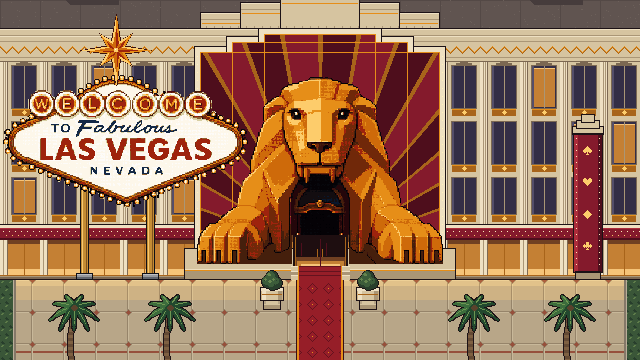
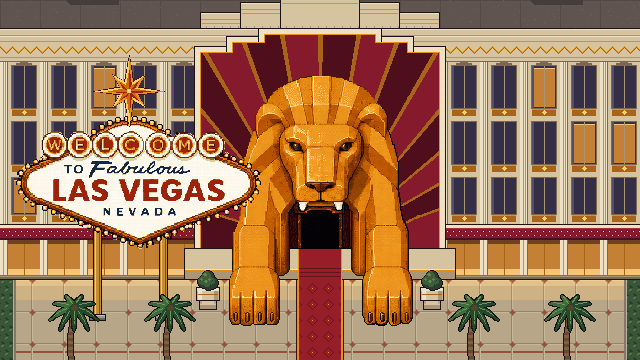
feat: el trailer en espanol muestra el juego de develop 793b10e
Se recapturan los planos que ensenaban algo que ya no esta en el juego
(03_firma, 04_parqueo, 05_hud, 10_brujo, 10_camisa, 11_hud y 12_reloj) y
se adaptan las composiciones que dependian de lo de antes:

- 03: la firma es ahora el cheque crema con el sello APROBADO; se anade
  su golpe seco (stamp-thud.wav del juego, CC0) cuando el sello toca el
  papel. music.mjs lo copia a sfx/ con el resto.
- 04: el leon nuevo esta de pie con las patas en la acera; el punto fijo
  del zoom pasa a su boca (pixel de juego 320, 232). "3 apuestas" pasa a
  "3 acciones": son acciones, no apuestas.
- 05, 11 y 12: el HUD es una sola tarjeta arriba a la izquierda. Los
  zooms que senalaban el dia a un lado y las acciones al otro encuadran
  ahora sus filas a x5 (arriba DIA 1 y el reloj, abajo ACCIONES, PLATA y
  DEUDA). En 12 el golpe sobre 0:00 es x7: a x6 asomaban DIA 1 o las
  fichas.
- 10: la tienda trae el plano del casino y la camisa es la pestana CAMISA
  de la pausa; el rotulo se va en ese corte para no tapar las pestanas.
- 16: el fondo del logo (shared/img/fachada.png) es la fachada nueva.

Solo espanol: texts/en.json, renders/en y out/trailer_en.mp4 no se tocan.

diff --git a/scenes/11-montaje/index.html b/scenes/11-montaje/index.html
@@ -4,6 +4,13 @@
   Cortes cada dos tiempos al principio y cada tiempo despues (de ~0,9 s a ~0,36 s): las
   mesas, los caballos llegando a camara lenta y el HUD: el dinero sube y baja, las acciones
   pasan de tres a ninguna y el reloj vuela. Cada corte lleva su sonido del juego, bajo.
+  El HUD es una tarjeta arriba a la izquierda. Sus cortes la encuadran a x5 (la tarjeta llena
+  el ancho, como en la escena 05): la mitad de abajo (ACCIONES, PLATA y DEUDA) o la de arriba
+  (DIA 1 y el reloj); o a x3 desde la esquina, como el principio de la escena 12. Cada corte con
+  "Una mas." encima va con el encuadre que deja el texto en un hueco entre filas: el del tiempo
+  13 (c5, top 450) cae entre DIA 1 y el reloj (por eso ese corte empieza en la fila 2 y no en
+  la 3: el reloj baja 15 px y no roza el texto); los del 20 y el 23 (c6, top 570), entre PLATA
+  y DEUDA y bajo el reloj.
   Sale del pase de carrete de la escena 10.
   Texto: "Una mas." tres veces, cada vez mas grande; la ultima, en rojo.
   Cada corte: data-beats="desde hasta" (tiempos) y data-sync="segundo_fuente@tiempo".
@@ -51,7 +58,7 @@
         </div>
       </div>
       <div class="shot">
-        <div class="zoom" style="transform: translate(-3840px, 0) scale(3)">
+        <div class="zoom" style="transform: translate(-60px, -1170px) scale(5)">
           <video data-media-start="1.55" data-duration="0.8667" data-start="1.7833" id="s11-c02" class="clip" src="captures/11_hud.mp4"
             data-beats="4 6" data-sync="1.55@4" data-track-index="0" muted playsinline></video>
         </div>
@@ -85,7 +92,7 @@
         </div>
       </div>
       <div class="shot">
-        <div class="zoom" style="transform: translate(-3840px, 0) scale(3)">
+        <div class="zoom" style="transform: translate(-60px, -30px) scale(5)">
           <video data-media-start="3.2" data-duration="0.4" data-start="5.5167" id="s11-c08" class="clip" src="captures/11_hud.mp4"
             data-beats="13 14" data-sync="3.2@13" data-track-index="0" muted playsinline></video>
         </div>
@@ -107,7 +114,7 @@
         </div>
       </div>
       <div class="shot">
-        <div class="zoom" style="transform: translate(-3840px, 0) scale(3)">
+        <div class="zoom" style="transform: translate(-60px, -1170px) scale(5)">
           <video data-media-start="4" data-duration="0.3833" data-start="7.0667" id="s11-c12" class="clip" src="captures/11_hud.mp4"
             data-beats="17 18" data-sync="4.0@17" data-track-index="0" muted playsinline></video>
         </div>
@@ -123,7 +130,7 @@
             data-beats="19 20" data-sync="4.0@19" data-track-index="0" muted playsinline></video>
       </div>
       <div class="shot">
-        <div class="zoom" style="transform: translate(-3840px, 0) scale(3)">
+        <div class="zoom" style="transform: translate(-60px, -1170px) scale(5)">
           <video data-media-start="5.65" data-duration="0.3667" data-start="8.2" id="s11-c15" class="clip" src="captures/11_hud.mp4"
             data-beats="20 21" data-sync="5.65@20" data-track-index="0" muted playsinline></video>
         </div>

diff --git a/scenes/04-parqueo/index.html b/scenes/04-parqueo/index.html
@@ -2,10 +2,13 @@
 <!--
   04 · El parqueo del casino (acto 1, 84). Si7b5 y Mi7b9: la dominante, que pide entrar.
   La fachada del leon y ella que sube por la alfombra y se mete en la boca. Las reglas del
-  juego se escriben en las bandas de cine: arriba los 150 segundos y las 3 apuestas, abajo la
+  juego se escriben en las bandas de cine: arriba los 150 segundos y las 3 acciones, abajo la
   deuda (la cifra REAL de balance_config.tres, initial_loan_principal), que cae en rojo.
   Al final, el empujon hacia la boca del leon: zoom ENTERO en escalones (x2, x3, x4, x6) a
-  golpe de corchea, hasta negro. Es la transicion al acto 2.
+  golpe de corchea, hasta negro. Es la transicion al acto 2. El punto fijo del zoom es la boca
+  del leon de la fachada pintada a mano (el leon de pie, con las patas en la acera): colmillos
+  en y 202-210 del cuadro y la boca negra en x 300-339, y 210-249 (pixeles de juego). A x6
+  quedan los colmillos arriba y la boca llena el centro.
   El murmullo del casino crece desde que ella se acerca a la puerta.
 -->
 <html
@@ -48,7 +51,7 @@
       <div class="black" id="s04-negro"></div>
       <div class="bar top"></div>
       <div class="bar bottom"></div>
-      <div class="t" id="s04-arriba"><span data-t="l1">150 segundos al día.</span><span>&#160;&#160;</span><span data-t="l2">3 apuestas.</span></div>
+      <div class="t" id="s04-arriba"><span data-t="l1">150 segundos al día.</span><span>&#160;&#160;</span><span data-t="l2">3 acciones.</span></div>
       <div class="t" id="s04-abajo"><span data-t="l3">Una deuda de</span><span>&#160;</span><span class="red" data-t="debt">₡88.888.000</span><span>.</span></div>
 
       <audio id="s04-murmullo" src="sfx/casino_ambience.mp3" data-start="1.8"
@@ -87,7 +90,8 @@
           T.jolt(tl, bottom, T.beat(SCENE, 5), 2);
 
           // El empujon a la boca del leon: escalones enteros, a golpe de corchea.
-          const P = { x: 960, y: 720 };
+          // Punto fijo: el pixel de juego (320, 232), entre los colmillos y la boca negra.
+          const P = { x: 960, y: 696 };
           const zoom = document.getElementById("s04-zoom");
           [[6, 2], [6.5, 3], [7, 4], [7.5, 6]].forEach(function (step) {
             const s = step[1];

diff --git a/scenes/05-hud/index.html b/scenes/05-hud/index.html
@@ -1,10 +1,14 @@
 <!doctype html>
 <!--
   05 · Dentro (acto 2 arranca: 92). Las bandas de cine se recogen en escalones: el casino
-  ocupa la pantalla entera. El HUD de verdad, reaccionando: DIA 1, el reloj de 150 s que
-  empieza a bajar al cruzar la puerta, las tres acciones y el dinero.
-  Corte 1: plano general, ella entra al salon. Tiempo 4: x3 sobre el reloj. Tiempo 6: x3
-  sobre las acciones y el dinero. Mismo clip, el tiempo sigue corriendo entre cortes.
+  ocupa la pantalla entera. El HUD de verdad, reaccionando: una sola tarjeta arriba a la
+  izquierda con DIA 1, el reloj de 150 s que empieza a bajar al cruzar la puerta, las tres
+  acciones (fichas rojas), la plata y la deuda.
+  Corte 1: plano general, ella entra al salon. Tiempo 4: x5 sobre la mitad de arriba de la
+  tarjeta (DIA 1, TIEMPO, el reloj y su barra). Tiempo 6: x5 sobre la mitad de abajo
+  (ACCIONES, PLATA y DEUDA). A x5 la tarjeta (x 6-129 del juego) llena el ancho del cuadro;
+  cada mitad mide 72 px de juego: filas 3-74 y 78-149. Mismo clip, el tiempo sigue corriendo
+  entre cortes.
 -->
 <html
   lang="es"
@@ -41,13 +45,13 @@
           data-beats="0 4" data-sync="0@0" data-track-index="0" muted playsinline></video>
       </div>
       <div class="shot">
-        <div class="zoom" style="transform: scale(3)">
+        <div class="zoom" style="transform: translate(-60px, -45px) scale(5)">
           <video data-media-start="2.6" data-duration="1.3" data-start="2.6" id="s05-reloj" class="clip" src="captures/05_hud.mp4"
           data-beats="4 6" data-sync="0@0" data-track-index="0" muted playsinline></video>
         </div>
       </div>
       <div class="shot">
-        <div class="zoom" style="transform: translate(-3840px, 0) scale(3)">
+        <div class="zoom" style="transform: translate(-60px, -1170px) scale(5)">
           <video data-media-start="3.9" data-duration="1.3167" data-start="3.9" id="s05-acciones" class="clip" src="captures/05_hud.mp4"
           data-beats="6 end" data-sync="0@0" data-track-index="0" muted playsinline></video>
         </div>

diff --git a/scenes/03-callejon/index.html b/scenes/03-callejon/index.html
@@ -2,8 +2,9 @@
 <!--
   03 · El callejon y la firma (acto 1, 84). Cmaj9 y Fa7M: la falsa esperanza en mayor.
   Corte 1: el callejon; ella llega a la farola y el cobrador ya sale a la luz (tiempo 2).
-  Corte 2 (tiempo 3): la firma de cerca, con el expediente de verdad (cifras del juego):
-  el garabato y el sobre que pasa de mano.
+  Corte 2 (tiempo 3): la firma de cerca, con el cheque de verdad (cifras del juego): el
+  odometro de DEVUELVES que acaba de girar, el garabato, el sello APROBADO que cae al
+  terminar la firma con su golpe seco (el sonido del juego) y el sobre que pasa de mano.
   Texto: a maquina desde el tiempo 4, con "si te presta" en dorado (lo que dice el cobrador
   va en dorado en el juego).
 -->
@@ -45,6 +46,10 @@
       </div>
       <div class="bar top"></div>
       <div class="bar bottom"></div>
+      <!-- El golpe seco del sello: en el juego suena cuando el sello toca el papel
+           (IntroStaging.stamp_hit_at = 3,52 s del plano de la firma = 3,75 s de la escena). -->
+      <audio id="s03-sello" src="sfx/stamp_thud.wav" data-start="3.75" data-duration="0.31"
+        data-volume="0.5" data-track-index="10"></audio>
       <div class="t" id="s03-texto"><span data-t="line1">Pero alguien </span><span class="gold" data-t="line2">sí te presta.</span></div>
     </div>
 

diff --git a/scenes/12-reloj/index.html b/scenes/12-reloj/index.html
@@ -1,8 +1,11 @@
 <!doctype html>
 <!--
   12 · Corte en seco. La musica se calla de golpe (el montaje acaba en la dominante y no
-  resuelve) y queda el tictac. El HUD de verdad con el reloj en 0:00, x3; a los dos
-  segundos, golpe a x6 sobre la cifra. Sin texto.
+  resuelve) y queda el tictac. El HUD de verdad (la tarjeta de arriba a la izquierda) con el
+  reloj en 0:00, x3; a los dos segundos, golpe a x7 sobre la cifra. x7 y no x6: a x6 caben 60
+  filas de juego y no hay 60 libres entre DIA 1 (filas 13-23) y las fichas de ACCIONES (82-91),
+  asi que asomaba un trozo de una o de otras. A x7 (91x51 px de juego desde x 4, y 26) quedan
+  solo la cifra y la barra vacia. Sin texto.
 -->
 <html
   lang="es"
@@ -69,9 +72,9 @@
         document.fonts.ready.then(function () {
           const T = TRAILER;
           T.fill(SCENE, ROOT);
-          // x3 sobre el HUD y golpe de zoom ENTERO a x6 sobre "0:00", en el quinto tic.
+          // x3 sobre el HUD y golpe de zoom ENTERO a x7 sobre "0:00", en el quinto tic.
           tl.set("#s12-zoom", { x: 0, y: 0, scale: 3 }, 0);
-          tl.set("#s12-zoom", { x: -1386, y: 0, scale: 6 }, 2.25);
+          tl.set("#s12-zoom", { x: -84, y: -546, scale: 7 }, 2.25);
           window.__timelines["s12"] = tl;
         });
       })();

diff --git a/scenes/10-brujo/index.html b/scenes/10-brujo/index.html
@@ -2,7 +2,10 @@
 <!--
   10 · El Brujo (126). Do7M9, Fa7M y Fa7M: lo mistico, con el vibrafono suelto.
   Corte 1: el saludo del Brujo (su frase de verdad, en su globo). Tiempo 4: su tienda de
-  pines y una compra. Tiempo 8: la camisa llenandose de pines, uno por golpe.
+  pines y una compra (con el plano del casino, el articulo fijo de la tienda). Tiempo 8: la
+  camisa llenandose de pines, uno por golpe. La camisa es la pestana CAMISA de la pausa, que
+  ocupa todo el cuadro con sus pestanas arriba (CAMISA, MAPA, CONFIGURACION): el rotulo se va
+  en ese corte para no tapar la de MAPA.
   Al final, el PASE DE CARRETE: cinco carretes que bajan y tapan el cuadro, y el montaje sale
   de ellos.
 -->
@@ -72,6 +75,7 @@
         const lines = T.growBox(tl, box, 960, 36, [T.beat(SCENE, 1), T.beat(SCENE, 4)]);
         T.type(tl, lines[0], T.beat(SCENE, 1), 34);
         T.type(tl, lines[1], T.beat(SCENE, 4), 34);
+        T.hide(tl, box, T.beat(SCENE, 8));
           const cue = T.cue(SCENE);
           T.reelPass(tl, document.getElementById("s10-pase"), "in", cue.duration - 0.2, 0.2);
           window.__timelines["s10"] = tl;

diff --git a/README.md b/README.md
@@ -43,14 +43,14 @@ index.html  el tráiler completo para Studio (GENERADO por sync)               [
 |---|---|---|
 | 01-carcel | 4,0 | Negro, la reja se abre. "Saliste de la cárcel." Entra el jazz. |
 | 02-calle | 5,7 | Cartel, portazo y NO, cada uno a golpe. "Nadie te contrata." |
-| 03-callejon | 5,7 | El cobrador sale a la luz; la firma y el sobre. "Pero alguien sí te presta." |
-| 04-parqueo | 5,7 | La fachada del león; entra por la boca. 150 s, 3 apuestas, ₡88.888.000. Zoom a la boca. |
-| 05-hud | 5,2 | Dentro. HUD: DÍA 1, el reloj, las acciones. |
+| 03-callejon | 5,7 | El cobrador sale a la luz; la firma en el cheque, el sello APROBADO (con su golpe) y el sobre. "Pero alguien sí te presta." |
+| 04-parqueo | 5,7 | La fachada del león; entra por la boca. 150 s, 3 acciones, ₡88.888.000. Zoom a la boca. |
+| 05-hud | 5,2 | Dentro. La tarjeta del HUD: DÍA 1 y el reloj; las acciones, la plata y la deuda. |
 | 06-tragamonedas | 4,8 | Cuatro sietes y el quinto a cámara lenta: GANASTE. "Ganar se siente bien." |
 | 07-ruleta | 4,4 | La bola en el 2; la carta que se voltea y es un rey. "Perder… también se olvida rápido." |
 | 08-tomar-aire | 4,3 | Se fuma algo y mira a cámara. "(Es tabaco. Probablemente.)" Solo el contrabajo. |
 | 09-barra | 4,0 | Tres whiskys y ¡MODO EBRIO! ×1,25, con la pantalla meciéndose. |
-| 10-brujo | 5,7 | El Brujo, su tienda, la camisa llenándose de pines. "Te vende suerte. O eso dice." |
+| 10-brujo | 5,7 | El Brujo, su tienda (con el plano del casino), la camisa de la pausa llenándose de pines. "Te vende suerte. O eso dice." |
 | 11-montaje | 9,7 | A todo trapo (132→168): mesas, caballos a cámara lenta, el HUD. "Una más." ×3 |
 | 12-reloj | 4,0 | Silencio. 0:00. Tictac. |
 | 13-cobrador | 6,0 | La puerta se entreabre; la calva, las gafas, la mano con el expediente. "Él siempre llega." |
